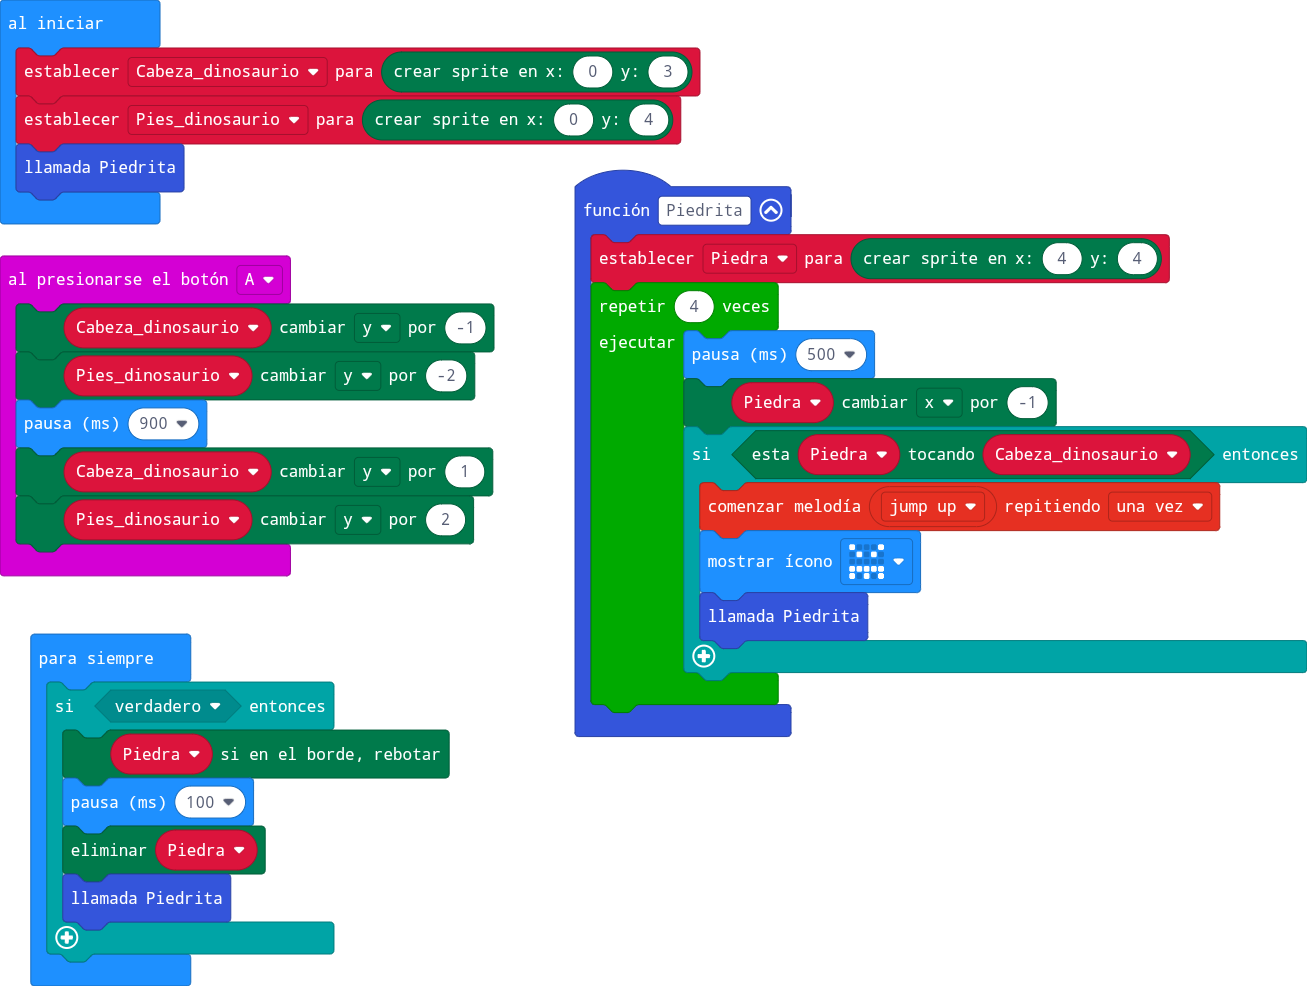
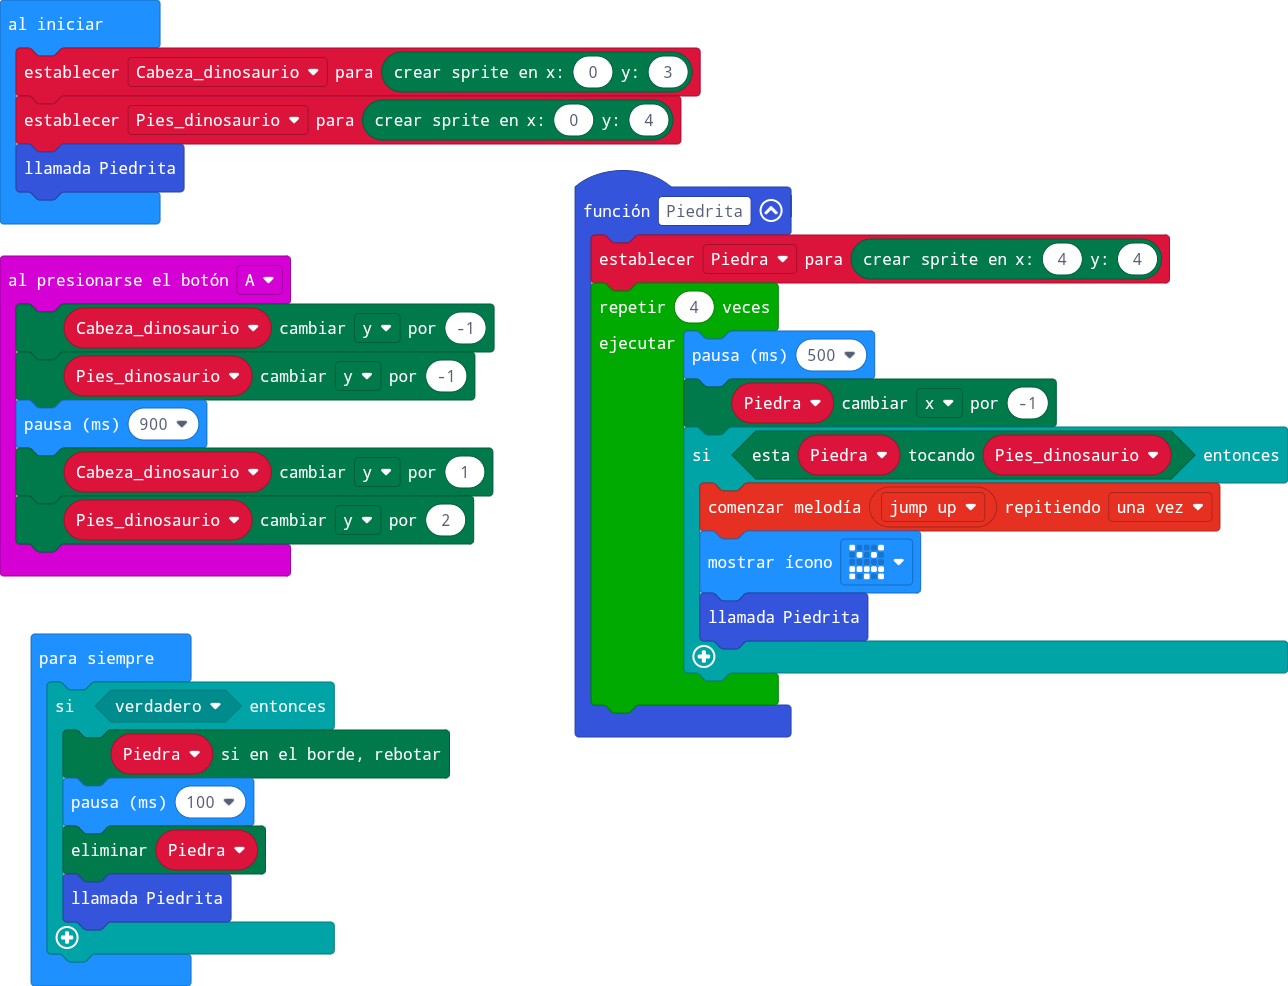
Actualizar main.blocks, main.ts

diff --git a/main.ts b/main.ts
@@ -1,6 +1,6 @@
 input.onButtonPressed(Button.A, function () {
     Cabeza_dinosaurio.change(LedSpriteProperty.Y, -1)
-    Pies_dinosaurio.change(LedSpriteProperty.Y, -2)
+    Pies_dinosaurio.change(LedSpriteProperty.Y, -1)
     basic.pause(900)
     Cabeza_dinosaurio.change(LedSpriteProperty.Y, 1)
     Pies_dinosaurio.change(LedSpriteProperty.Y, 2)
@@ -10,7 +10,7 @@ function Piedrita () {
     for (let index = 0; index < 4; index++) {
         basic.pause(500)
         Piedra.change(LedSpriteProperty.X, -1)
-        if (Piedra.isTouching(Cabeza_dinosaurio)) {
+        if (Piedra.isTouching(Pies_dinosaurio)) {
             music.startMelody(music.builtInMelody(Melodies.JumpUp), MelodyOptions.Once)
             basic.showIcon(IconNames.Angry)
             Piedrita()
